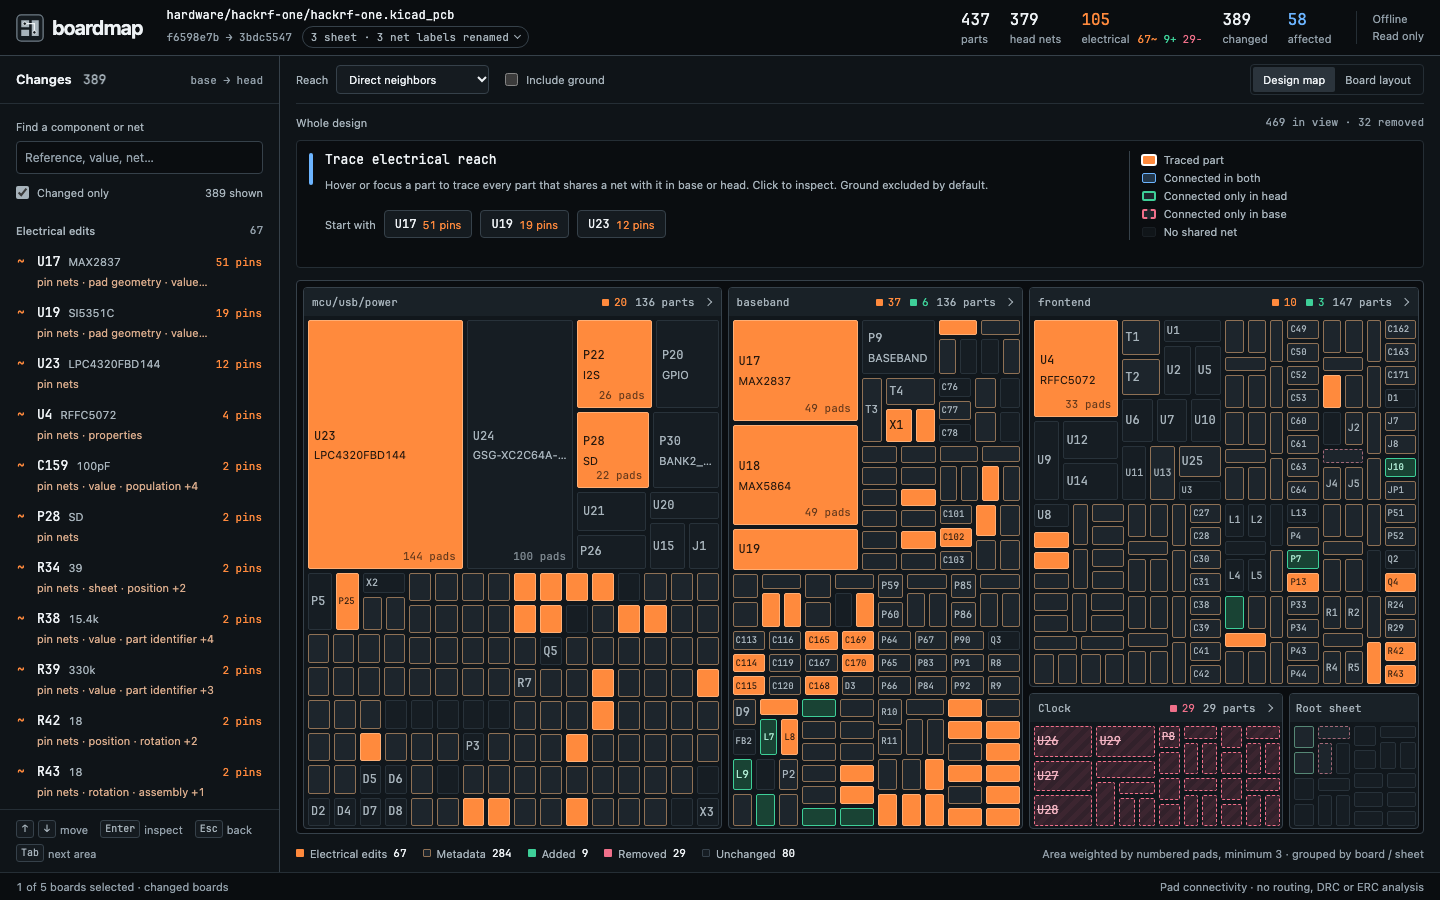
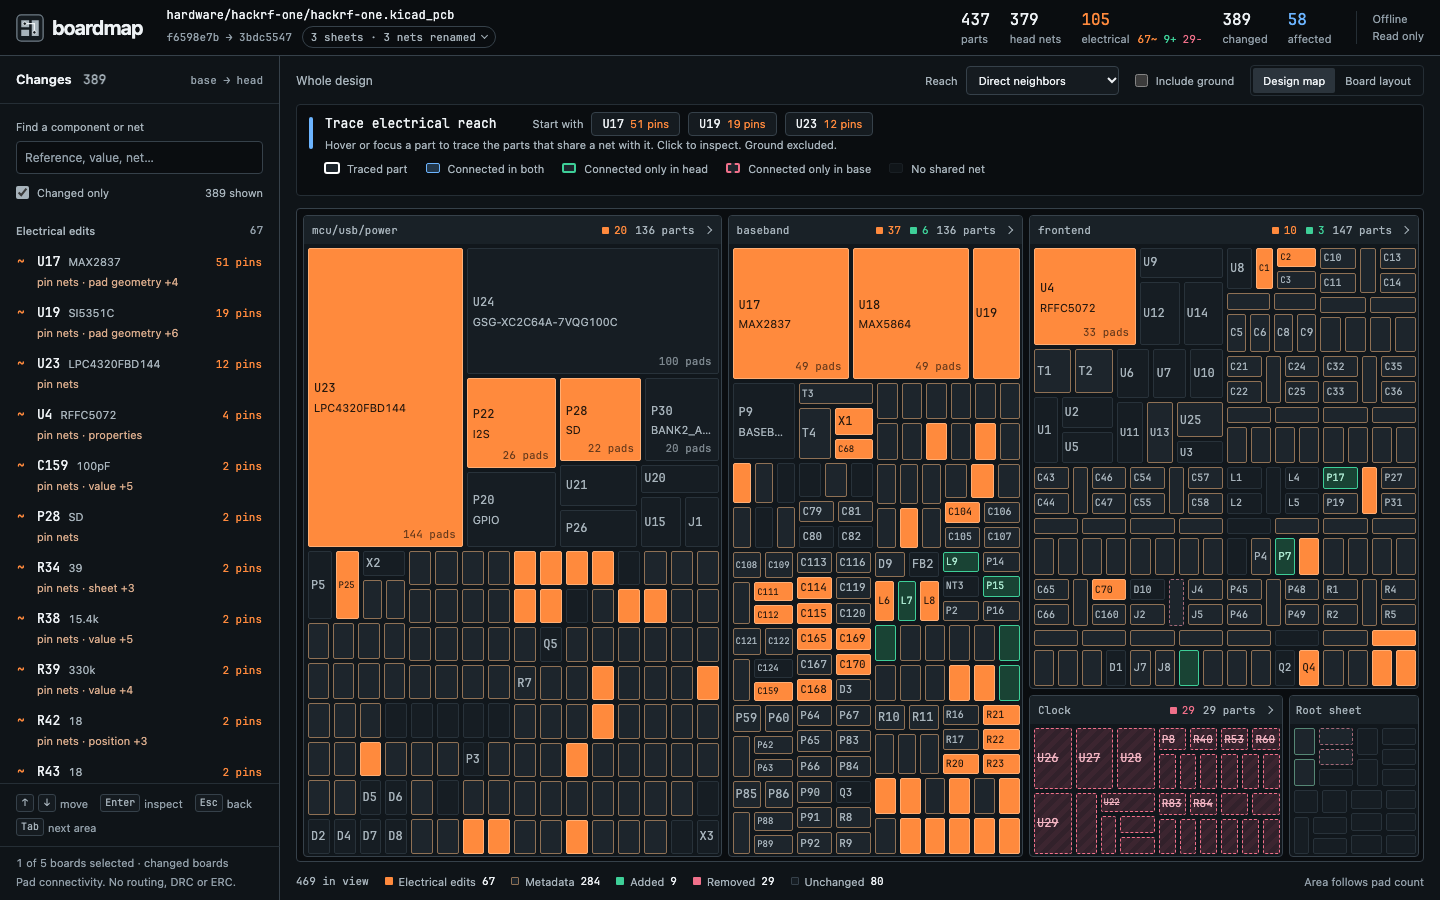
Keep the hub rule to direct reach, respect direct touches and reword rails

diff --git a/web/app.js b/web/app.js
@@ -989,7 +989,7 @@ function highlight(id) {
   const visibleEdges = result.edges.filter(
     (edge) => centers.has(edge.source) && centers.has(edge.target),
   );
-  // On a busy trace, a rail with many loads is shown by its rings alone. Curves go to the
+  // On a busy trace, a rail with many loads is shown by its highlighted tiles alone. Curves go to the
   // parts that also share a smaller net with the traced part, where a single link can be followed.
   const reachNets = netReachGroups(report, p, result, state.transitive),
     lightest = new Map();
@@ -1005,7 +1005,8 @@ function highlight(id) {
     : visibleEdges;
   // A hub touches so much that unchanged links bury the changed ones. There, curves are
   // drawn for the changed connections alone, and unchanged neighbors keep a quiet tint.
-  const hub = result.ids.length > hubSize;
+  // Direct reach only. A transitive walk needs its unchanged steps to stay connected.
+  const hub = !state.transitive && result.ids.length > hubSize;
   $("tiles").classList.toggle("hub", hub);
   const changedOnly = hub && drawable.some(changed);
   const dense = !changedOnly && drawable.length > 80;
@@ -1146,7 +1147,7 @@ function highlight(id) {
   if (gained.size) facts.push(el("span", `${gained.size} only in head`, "gained"), " · ");
   if (lost.size) facts.push(el("span", `${lost.size} only in base`, "lost"), " · ");
   const ringed = rails.length
-    ? ` · ${rails.map((net) => net.name.split("/").at(-1)).join(", ")} ringed without curves`
+    ? ` · ${rails.map((net) => net.name.split("/").at(-1)).join(", ")} shown without curves`
     : "";
   const which = changedOnly
     ? " (changed links only)"
@@ -1158,7 +1159,7 @@ function highlight(id) {
     el(
       "span",
       phone
-        ? `${visible} in view · ${outside} outside · ${edges.length} ${curveUnit}${rails.length ? ` · ${rails.length} ${rails.length === 1 ? "rail" : "rails"} ringed` : ""}. ${state.includeGround ? "Ground included." : "Ground excluded."}`
+        ? `${visible} in view · ${outside} outside · ${edges.length} ${curveUnit}${rails.length ? ` · ${rails.length} ${rails.length === 1 ? "rail" : "rails"} without curves` : ""}. ${state.includeGround ? "Ground included." : "Ground excluded."}`
         : `${visible} in view${outside ? ` · ${outside} outside this view` : ""} · ${edges.length} ${curveUnit} shown${which}${ringed}. ${state.includeGround ? "Ground included." : "Ground excluded."}`,
       "drawn",
     ),
@@ -1200,7 +1201,7 @@ function highlight(id) {
       label.title = net.name;
       if (rails.some((rail) => rail.name === net.name)) {
         row.classList.add("rail");
-        row.title = "Every part on this rail is ringed. Curves are drawn for smaller nets.";
+        row.title = "Every part on this rail stays highlighted. Curves are drawn for smaller nets.";
       }
       if (net.change) {
         row.dataset.change = net.change;
@@ -2184,7 +2185,8 @@ async function init() {
       "click",
       (event) => {
         if (state.view !== "board" || !lastTouch || event.detail === 0) return;
-        if (event.target.closest(".tile[data-enlarged]")) return;
+        // A touch that lands on any changed part means that part.
+        if (event.target.closest(".tile:not(.unchanged):not(.metadata)")) return;
         const near = nearestChange(event.clientX, event.clientY);
         if (!near) return;
         event.stopPropagation();

diff --git a/web/style.css b/web/style.css
@@ -805,7 +805,7 @@ main:has(#diff-panel:not([hidden])) > #impact {
 .net-reach-list li b {
   font-weight: 500;
 }
-/* A rail whose loads are ringed without curves. */
+/* A rail whose loads are highlighted without curves. */
 .net-reach-list li.rail > span::after {
   content: " ◌";
   color: var(--faint);

diff --git a/README.md b/README.md
@@ -32,7 +32,7 @@ By default, it includes every component in boards whose files changed. If no boa
 - The map groups parts by board and the schematic sheet names stored on footprints. Area follows numbered pad count, with a minimum size for small parts and sheet controls. Unchanged parts stay muted. Pin, pad, value, footprint, population and existing part-number replacements get solid orange; other modifications have neutral fill and an orange edge. Electrical additions are green and removals are striped pink. Metadata artwork keeps neutral fill and status outlines.
 - Tab enters each component region once; arrows and Home / End move through it, and Enter / Space inspect. Hover or keyboard-focus any part, in the map or sidebar, to trace shared-net neighbors. Both revisions contribute connections, so disconnecting or removing a part still shows its former neighbors. Power nets connect a regulator to every part on that rail. Ground is excluded by name by default and can be included. A neighbor connected only in head gets a green ring and a green curve. A neighbor connected only in base gets a dashed pink ring and a dashed curve. Neighbors connected in both stay blue. In transitive mode, green and pink rings mark parts reachable in only one revision, blue covers the remaining structural reach, and only curves from the traced part carry revision color. The readout counts each kind and lists the nets the part joined or left first.
 - On touch screens, tap once to preview reach, then tap the same part again or use its Open diff action to inspect. In the overview, tapping a part narrower than 24 pixels opens its sheet with that part previewed and scrolled into view. Drilled sheets fit complete references and have targets at least 32 pixels wide and tall. The changes list can be expanded above the map.
-- Direct reach follows one net hop. Transitive reach walks through components and their nets. This is structural adjacency across both revisions, not circuit simulation or a claim that signals pass through an IC. Large transitive results can span most of a board. On a trace with more than 30 visible links, a net with more than 12 loads is treated as a rail: its loads keep their rings, and curves go only to parts that also share a smaller net with the traced part. The readout names the rails ringed without curves. A part with more than 60 neighbors is traced as a hub: when any of its connections changed, curves are drawn for the changed connections only, and neighbors whose connection did not change keep a tint without a ring. Above 80 remaining links, curves show only changed connections and links involving electrical, added or removed neighbors. Curves pass behind part names and sheet headers. Every reachable neighbor stays highlighted. The desktop readout names what changed on the traced part beside its reference, ranks joined and left signal nets first, then joined and left rails, then the rest by neighbor count, and scrolls the remaining nets separately from its counts. Its idle and traced states share one height, so a hover does not move the map. Pause over another part to change the source. Movement across intervening tiles preserves the trace while you reach its net list. On phones, the readout shows the leading nets and stays visible while a drilled sheet scrolls. In the part inspector, open the neighbors disclosure to read every reached reference grouped by net, including parts outside the current sheet. Each reference opens its own inspection. Counts overlap when parts share several nets.
+- Direct reach follows one net hop. Transitive reach walks through components and their nets. This is structural adjacency across both revisions, not circuit simulation or a claim that signals pass through an IC. Large transitive results can span most of a board. On a trace with more than 30 visible links, a net with more than 12 loads is treated as a rail: its loads stay highlighted, and curves go only to parts that also share a smaller net with the traced part. The readout names the rails shown without curves. In direct reach, a part with more than 60 neighbors is traced as a hub: when any of its connections changed, curves are drawn for the changed connections only, and neighbors whose connection did not change keep a tint without a ring. Above 80 remaining links, curves show only changed connections and links involving electrical, added or removed neighbors. Curves pass behind part names and sheet headers. Every reachable neighbor stays highlighted. The desktop readout names what changed on the traced part beside its reference, ranks joined and left signal nets first, then joined and left rails, then the rest by neighbor count, and scrolls the remaining nets separately from its counts. Its idle and traced states share one height, so a hover does not move the map. Pause over another part to change the source. Movement across intervening tiles preserves the trace while you reach its net list. On phones, the readout shows the leading nets and stays visible while a drilled sheet scrolls. In the part inspector, open the neighbors disclosure to read every reached reference grouped by net, including parts outside the current sheet. Each reference opens its own inspection. Counts overlap when parts share several nets.
 - Click a sheet to zoom, use breadcrumbs to return, or switch to Board layout, which draws an approximate outline of each footprint from its pad positions and sizes inside a bounding frame and names changed parts. A drilled sheet grows only as needed to fit its references. Desktop sheets scroll inside the map; phone sheets use document scrolling. Each populated board has its own chooser when a repository contains multiple designs.
 - Click a part for its semantic diff and local pad regions. Press Escape or Back to map to return. With no part traced, Escape steps out of a drilled sheet. The returned component stays marked and named in the reach readout for mouse, keyboard and touch. Search by reference, value, footprint, or net. The sidebar follows the current board or sheet. Electrical edits come first, sorted by rewired-pin count and then natural reference order, followed by Removed, Added and Metadata groups. Zero-pad artwork stays in Metadata with its original added or removed status. Pin rows lead the inspector; changed property keys have individual rows, and changed pad geometry is available in a disclosure. The Changed only filter does not hide unchanged context in the map.
 
@@ -77,7 +77,7 @@ This version reads `.kicad_pcb` footprint and pad data, including the s-expressi
 
 - Connectivity comes from board pad net assignments. A schematic-only change, including a value or net change not yet pushed to the PCB, is not analyzed. Schematic hierarchy comes from footprint sheet metadata; absent metadata falls into Root sheet. Full hierarchical schematic parsing is future work.
 - The diff compares values, footprint names, fields such as MPN, position, rotation, side, sheet, numbered pin-net assignments, and stored pad geometry, drills, and layers. Copper tracks, vias, zones, graphics, design rules and other manufacturing settings are outside this comparison. A copper-only edit can report zero changed components.
-- The local regions draw basic pad shapes, drill holes and neighboring footprints, not full silkscreen or copper artwork. Nonstandard shapes are labeled approximate. The board view draws approximate footprint outlines from pad positions and sizes, without custom pad polygons. It enlarges the smallest parts so they stay selectable, nudges enlarged electrical changes apart by at most 18 pixels where they would overlap, lets a touch within 22 pixels pick the nearest of them, and does not draw the board edge or copper. Densely packed parts can overlap. Use the map or sidebar to select those parts.
+- The local regions draw basic pad shapes, drill holes and neighboring footprints, not full silkscreen or copper artwork. Nonstandard shapes are labeled approximate. The board view draws approximate footprint outlines from pad positions and sizes, without custom pad polygons. It enlarges the smallest parts so they stay selectable, nudges enlarged electrical changes apart by at most 18 pixels where they would overlap, lets a touch that lands on no changed part pick the nearest of them within 22 pixels, and does not draw the board edge or copper. Densely packed parts can overlap. Use the map or sidebar to select those parts.
 - Components match by board path and reference, with UUIDs for duplicate references. Reference renames or moving parts between board files appear as removal/addition. Net names are scoped per board. Ground suppression recognizes common names such as GND, AGND, DGND, GNDR, GNDL, VSS and their sheet-qualified variants; other return names remain included. This is a name-based filter.
 - DRC/ERC delta and a GitHub Action that posts a PR summary are future work. There is no release or npm registry publication.
 

diff --git a/docs/media/ui/README.md b/docs/media/ui/README.md
@@ -11,7 +11,7 @@ Actual Chromium captures of the running UI on the pinned HackRF PR 1411 and Corn
 | `inspector/inspector-unchanged.png` | 1440 × 900 | An unchanged part has no red or green cells. |
 | `inspector/inspector-added.png`, `inspector/inspector-removed.png` | 1440 × 900 | Only the revision that holds the part carries color. The other side shows a muted empty mark. |
 | `map/hackrf/map-idle.png`, `map/corne/map-idle.png` | 1440 × 900 | Sheet headers count their electrical changes. The legend counts every tile class in view. The idle readout holds the three largest electrical changes on its title row and the five-mark trace key on one line. |
-| `map/hackrf/map-reach.png`, `map/corne/map-reach.png` | 1440 × 900 | Hovering U17 or ZD1 draws curves that leave and meet tiles square to their edges. Neighbors connected only in head are green, neighbors connected only in base are dashed pink, and neighbors connected in both stay blue. Curves pass behind part names and sheet headers. On HackRF U17, VCC and VAA are ringed without curves. |
+| `map/hackrf/map-reach.png`, `map/corne/map-reach.png` | 1440 × 900 | Hovering U17 or ZD1 draws curves that leave and meet tiles square to their edges. Neighbors connected only in head are green, neighbors connected only in base are dashed pink, and neighbors connected in both stay blue. Curves pass behind part names and sheet headers. On HackRF U17, VCC and VAA are shown without curves. |
 | `map/hackrf/hub-reach.png` | 1440 × 900 | U23 has 205 neighbors. Curves are drawn for its changed connections only, and neighbors whose connection did not change are tinted without a ring. |
 | `map/hackrf/sheet.png`, `map/hackrf/sheet-reach.png`, `map/corne/sheet.png`, `map/corne/sheet-reach.png` | 1440 × 900 | A drilled sheet, idle and traced. |
 | `map/hackrf/phone-idle.png`, `map/hackrf/phone-preview.png` | 390 × 844 | The phone readout keeps one height. Idle, it holds the instruction and the key. After a tap, it holds the trace with the Open diff action beside the part name. Reach, ground and the view switch share one row, so the map starts in the upper half of the screen. |
